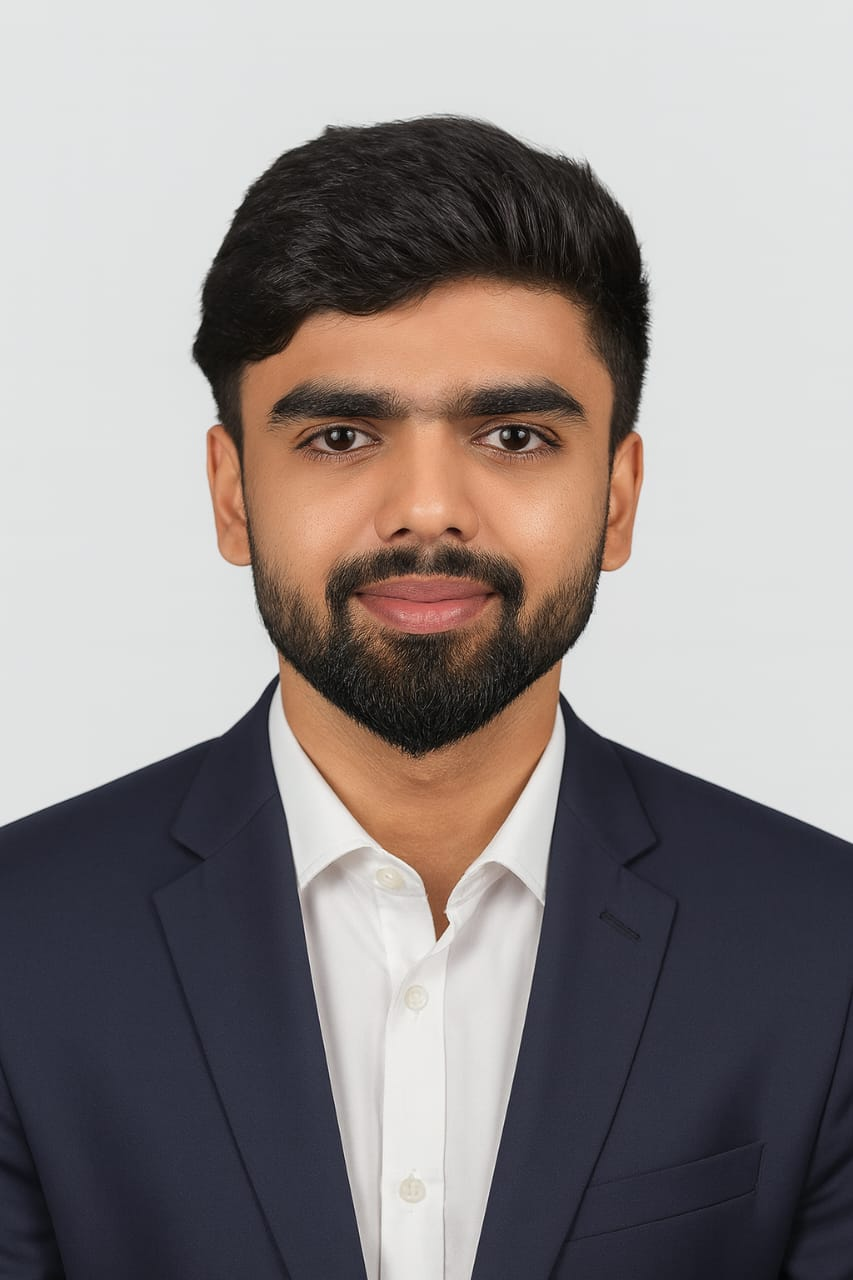
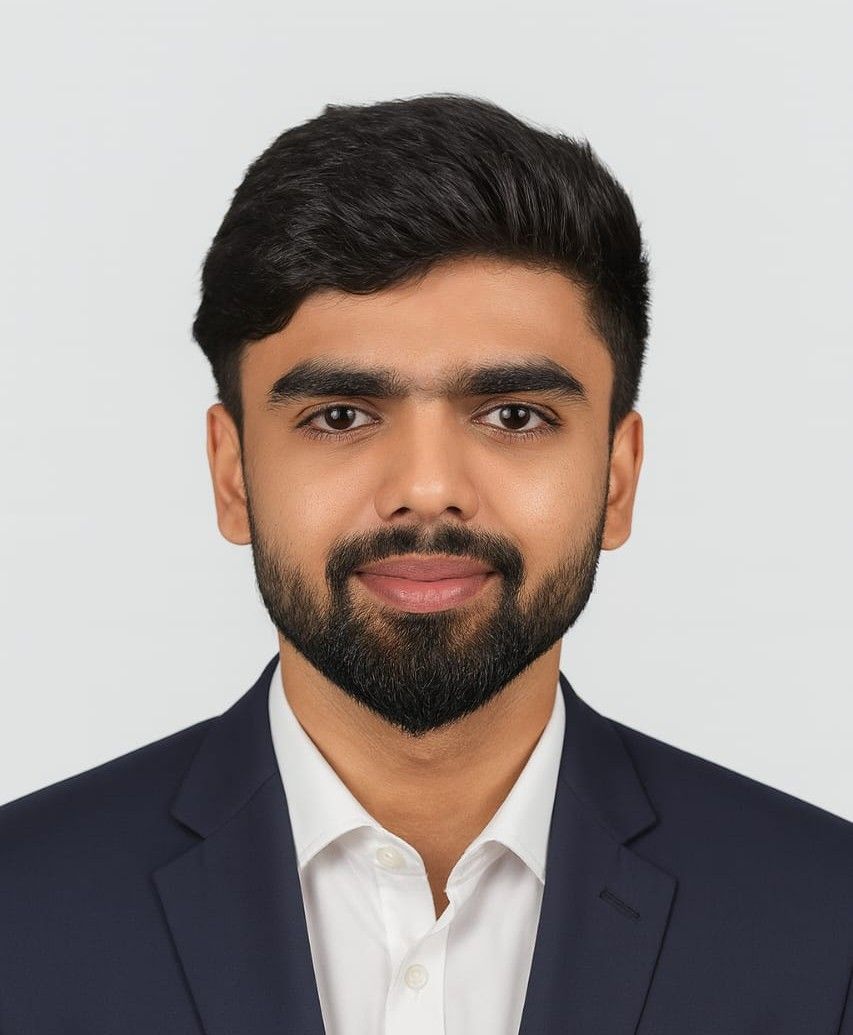
add som new data

diff --git a/home.html b/home.html
@@ -14,12 +14,12 @@
     <nav>
         <h2>Portfolio</h2>
         <ul>
-            <li><a href="#home">Home</a></li>
-            <li><a href="#education">Education</a></li>
+            <li><a href="#home">🏠Home</a></li>
+            <li><a href="#education">👨🏻🎓Education</a></li>
             <li><a href="#about">About</a></li>
             <li><a href="#skills">Skills</a></li>
             <li><a href="#projects">Projects</a></li>
-            <li><a href="#contact">Contact</a></li>
+            <li><a href="#contact">📞Contact</a></li>
 
         </ul>
     </nav>
@@ -44,24 +44,8 @@
         <p><strong>College:</strong> Mgm collage of Computer science</p>
         <p><strong>Branch:</strong> computer science</p>
         <p><strong>Year:</strong> 2022 - 2026</p>
-        <p>
-            Currently pursuing bca with a strong interest in
-            Frontend Development, React.js, and Web Technologies.
-        </p>
+        
     </div>
-</section>
-
-    <p>
-        I create responsive and modern websites using
-        HTML, CSS, JavaScript, Bootstrap and React.
-    </p>
-
-    <div class="buttons">
-        <a href="https://github.com/waman-s" target="_blank">GitHub</a>
-
-        <a href="https://www.linkedin.com/in/waman-suryawanshi-aa5329399" target="_blank">LinkedIn</a>
-    </div>
-
 </section>
 
 <section id="about">
@@ -78,6 +62,22 @@ I have developed projects such as a Gym Management Website, Personal Portfolio W
 
 I am passionate about solving problems through technology and always eager to learn new tools, frameworks, and development practices. My goal is to build innovative digital solutions and grow into a skilled Full Stack Developer.
     </p>
+    <p>
+            Currently pursuing bca with a strong interest in
+            Frontend Development, React.js, and Web Technologies.
+        </p>
+     <p>
+        I create responsive and modern websites using
+        HTML, CSS, JavaScript, Bootstrap and React.
+    </p>
+
+    <div class="buttons">
+        <a href="https://github.com/waman-s" target="_blank">GitHub</a>
+
+        <a href="https://www.linkedin.com/in/waman-suryawanshi-aa5329399" target="_blank">LinkedIn</a>
+    </div>    
+
+
 </section>
 
 <section id="skills">
@@ -125,13 +125,32 @@ I am passionate about solving problems through technology and always eager to le
         </div>
 
         <div class="card">
-            <h3>Portfolio Website</h3>
-            <p>Personal portfolio with modern design.</p>
+            <h3>Adhyayan Website</h3>
+            <p>🚀 Excited to share my project –  <br>
+                  <b>  Adhyayan it traning & placement Website!</b> <br> <br>
+                   💪 Features: <br>
+                        ✅ cources Landing Page  <br>
+                        ✅  Registration Form  <br>
+                        ✅  Programs Section <br>
+                        ✅ Responsive Design  <br>
+                        Attractive UI with HTML, <br>
+                        CSS & Bootstrap <br>
+
+                        This project helped me improve my frontend developmentbr
+                         skills and create a professional fitness website experience. <br>
+
+                        #WebDevelopment #FrontendDeveloper #HTML #CSS #Bootstrap </p> <br>
+                        <div class="gym-img">
+                            <img src="./adhy-1.png" alt="" height="100px">
+                            <img src="./adhy-2.png" alt="" height="100px">
+                            <img src="./adhy-3.png" alt="" height="100px">
+
+                        </div>
         </div>
 
         <div class="card">
-            <h3>Todo App</h3>
-            <p>Task management application using React.</p>
+            <h3>portfolio</h3>
+            <p>🚀 Excited to share my project – </p>
         </div>
 
     </div>

diff --git a/home.css b/home.css
@@ -31,6 +31,10 @@ nav ul{
 nav ul li{
     margin-left:20px;
 }
+li:hover{
+    
+     transform: scale(1.3);
+}
 
 nav ul li a{
     text-decoration:none;
@@ -47,6 +51,9 @@ nav ul li a{
 .hero h1{
     margin-top:20px;
     font-size:50px;
+}
+.hero-image:hover{
+     transform: scale(1.3);
 }
 
 .hero h3{
@@ -71,6 +78,8 @@ nav ul li a{
 
 .buttons a:hover{
     background:#38bdf8;
+     transform: scale(1.3); 
+    
 }
 
 section{
@@ -103,6 +112,9 @@ h2:hover{
     padding:12px 20px;
     border-radius:8px;
 }
+span:hover{
+    transform: scale(1.3);
+}
 
 .project-container{
     display:flex;
@@ -110,6 +122,7 @@ h2:hover{
     flex-wrap:wrap;
     justify-content:center;
 }
+
 
 .card{
     background:#1e293b;
@@ -125,7 +138,7 @@ h2:hover{
 }
 
 .card:hover{
-    transform:translateY(-8px);
+    transform: scale(1.5);
 }
 
 #contact{
@@ -136,12 +149,6 @@ h2:hover{
     color:#38bdf8;
     text-decoration:none;
     margin:10px;
-}
-
-footer{
-    text-align:center;
-    background:#1e293b;
-    padding:20px;
 }
 
 .hero-image img{
@@ -169,4 +176,13 @@ footer{
 .education-card p{
     margin:10px 0;
     line-height:1.6;
+} 
+.education-card:hover{
+    transform: scale(1.2);
+}
+
+footer{
+    text-align:center;
+    background:#1e293b;
+    padding:20px;
 }
